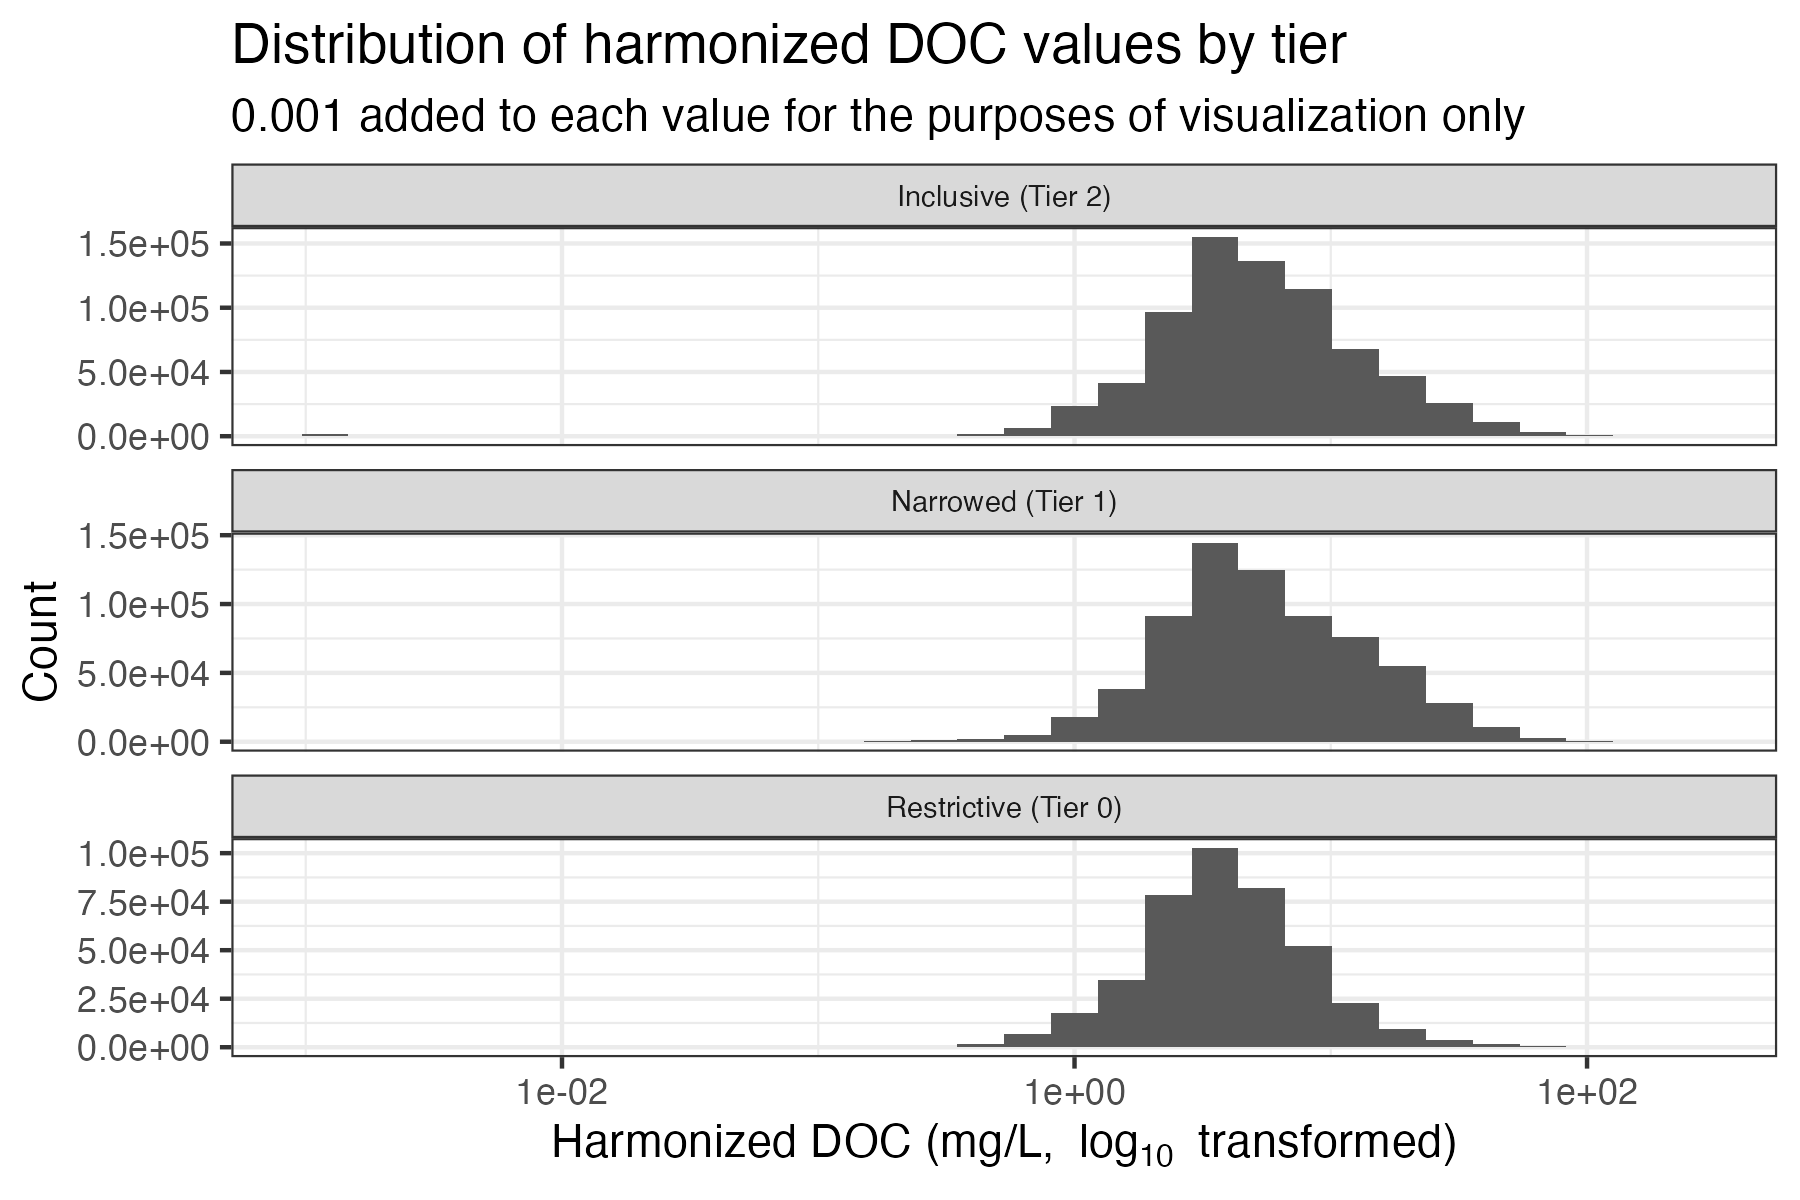
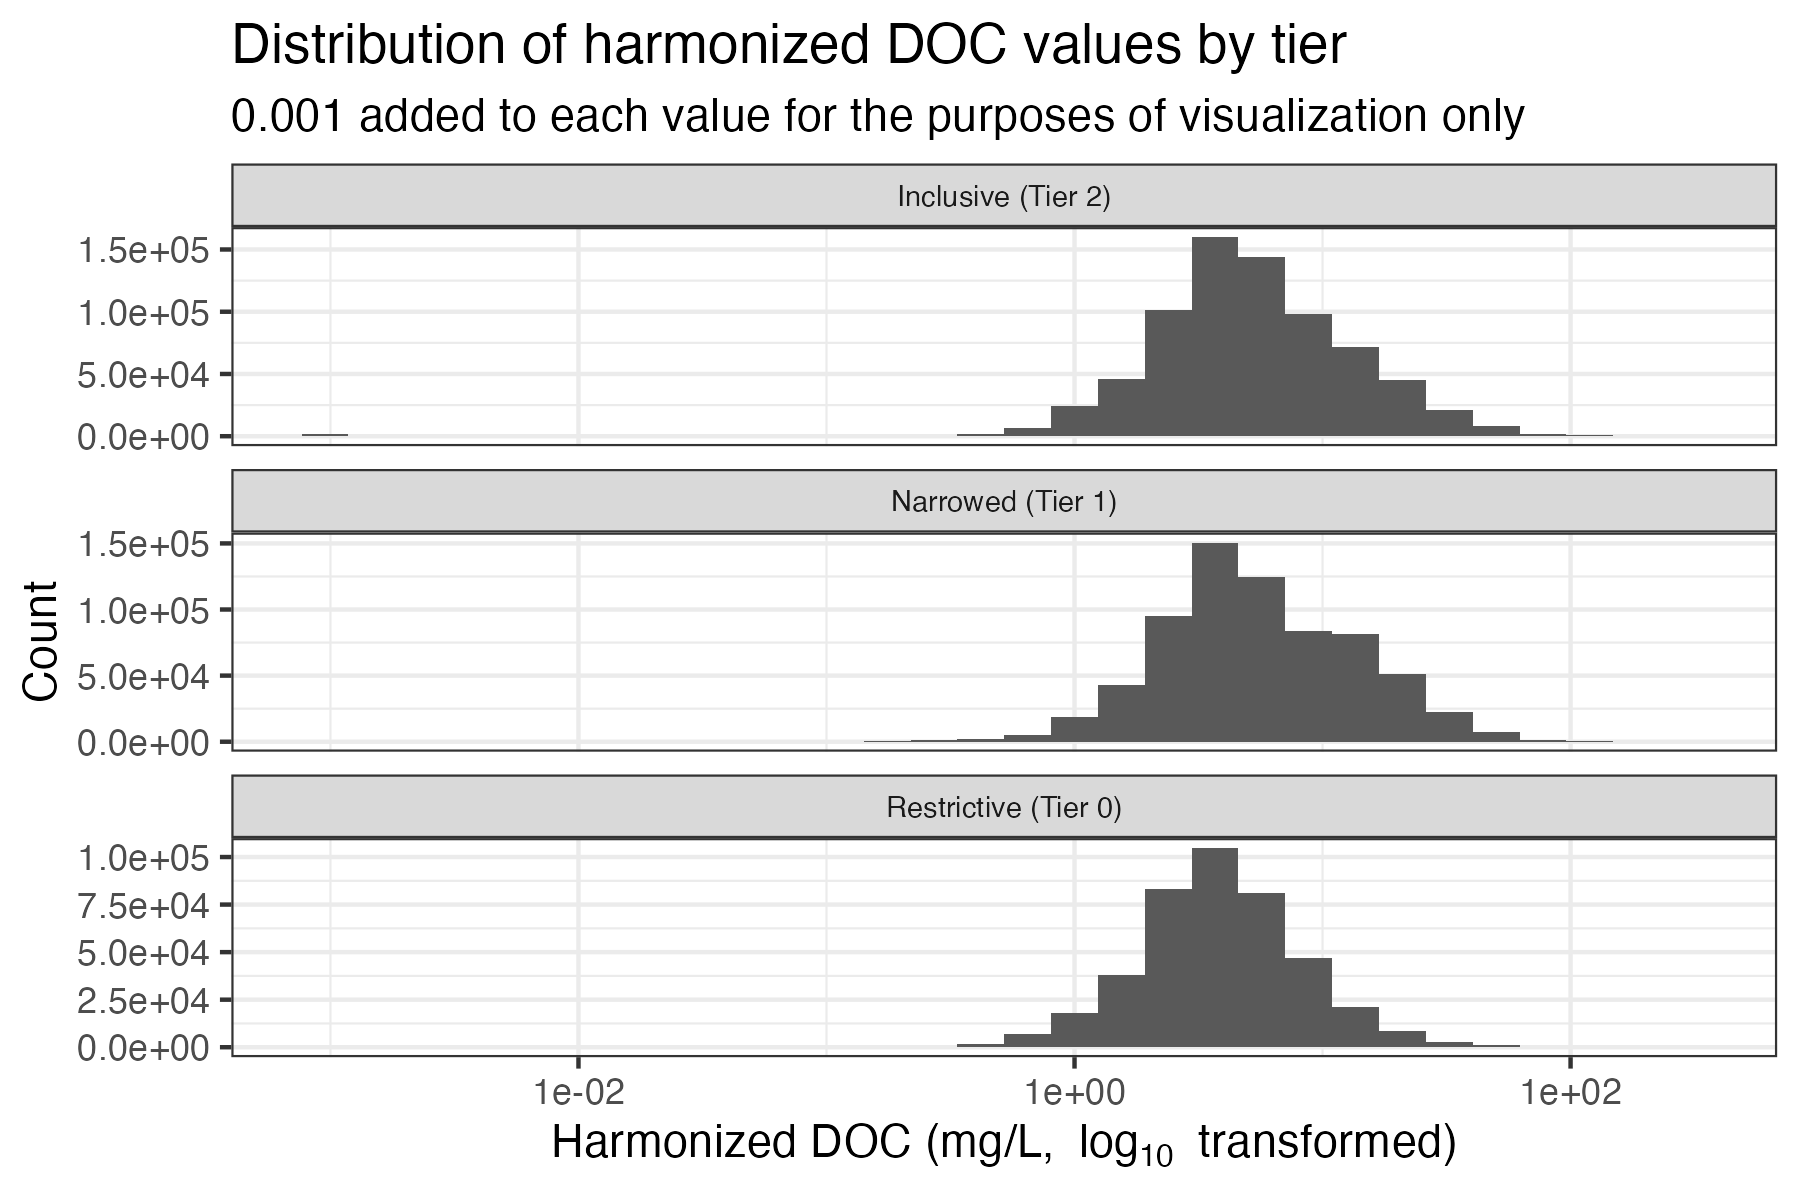
Update depth limits, rerun

diff --git a/docs/references.html b/docs/references.html
@@ -23,7 +23,7 @@
 <meta name="author" content="ROSSyndicate" />
 
 
-<meta name="date" content="2024-10-31" />
+<meta name="date" content="2024-11-05" />
 
   <meta name="viewport" content="width=device-width, initial-scale=1" />
   <meta name="apple-mobile-web-app-capable" content="yes" />
@@ -265,12 +265,18 @@ services. <a href="doi:10.5066/P9X4L3GE" class="uri">doi:10.5066/P9X4L3GE</a></p
 <p>Gieskes, W. W. C., C. Veth, A. Woehrmann, and M. Graefe. 1987. Secchi
 disc visibility world record shattered. Eos, Transactions American
 Geophysical Union 68: 123–123. <a href="doi:10.1029/EO068i009p00123-01" class="uri">doi:10.1029/EO068i009p00123-01</a></p>
+<p>Hotchkiss, E. R., and T. DelSontro. 2024. Chapter 28 - Organic Carbon
+Cycling and Ecosystem Metabolism, p. 939–997. In I.D. Jones and J.P.
+Smol <span class="math display">\[eds.\]</span>, Wetzel’s Limnology (Fourth Edition). Academic Press.</p>
 <p>Landau, W. M. 2021. The targets R package: a dynamic Make-like
 function-oriented pipeline toolkit for reproducibility and
 high-performance computing. Journal of Open Source Software 6: 2959.</p>
 <p>Larson, D. W. 1972. Temperature, transparency, and phytoplankton
 productivity in Crater Lake, Oregon. Limnology and Oceanography 17:
 410–417. <a href="doi:10.4319/lo.1972.17.3.0410" class="uri">doi:10.4319/lo.1972.17.3.0410</a></p>
+<p>Mulholland, P. J. 2003. 6 - Large-Scale Patterns in Dissolved Organic
+Carbon Concentration, Flux, and Sources, p. 139–159. In S.E.G. Findlay
+and R.L. Sinsabaugh <span class="math display">\[eds.\]</span>, Aquatic Ecosystems. Academic Press.</p>
 <p>National Water Quality Monitoring Council, United States Geological
 Survey (USGS), and Environmental Protection Agency (EPA). 2021. Water
 Quality Portal.doi:<a href="https://doi.org/10.5066/P9QRKUVJ" class="uri">https://doi.org/10.5066/P9QRKUVJ</a></p>
@@ -283,8 +289,9 @@ Remote Sensing of Water Quality for Inland Waters. Water Resources
 Research 55: 10012–10025. <a href="doi:10.1029/2019WR024883" class="uri">doi:10.1029/2019WR024883</a></p>
 <p>Teucher, A. 2023. lutz: Look Up Time Zones of Point Coordinates. R
 package version 0.3.2, <a href="https://CRAN.R-project.org/package=lutz" class="uri">https://CRAN.R-project.org/package=lutz</a>.</p>
-<p>Wetzel, R. G. 2011. Limnology: lake and river ecosystems, 3. ed. San
-Diego: Academic Press.</p>
+<p>Wetzel, R. G. 2024. Wetzel’s limnology: lake and river ecosystems,
+Fourth edition. I.D. Jones and J.P. Smol <span class="math display">\[eds.\]</span>. Academic Press, an
+imprint of Elsevier.</p>
 
 </div>
             </section>

diff --git a/docs/doc-harmonization-process.html b/docs/doc-harmonization-process.html
@@ -23,7 +23,7 @@
 <meta name="author" content="ROSSyndicate" />
 
 
-<meta name="date" content="2024-10-31" />
+<meta name="date" content="2024-11-05" />
 
   <meta name="viewport" content="width=device-width, initial-scale=1" />
   <meta name="apple-mobile-web-app-capable" content="yes" />
@@ -837,8 +837,11 @@ dropped leaving 2.2 million remaining in the harmonized DOC dataset.</p>
 <div id="remove-unrealistic-values-1" class="section level3 hasAnchor" number="6.2.12">
 <h3><span class="header-section-number">6.2.12</span> Remove unrealistic values<a href="doc-harmonization-process.html#remove-unrealistic-values-1" class="anchor-section" aria-label="Anchor link to header"></a></h3>
 <p>Before finalizing the dataset we remove DOC values that are beyond a
-realistic threshold. We use 200 mg/L as our cutoff for removal
-<span class="math display">\[citation needed\]</span>.</p>
+realistic threshold. We use 300 mg/L as our cutoff for removal as
+typical values are often less than 120 mg/L (Hotchkiss and DelSontro,
+2024) but values of 300 mg/L occur in some climates (Mulholland, 2003).</p>
+<p>We also remove any depths &gt; 592m, the deepest point in a lake in the
+U.S.</p>
 <p>19.2 thousand rows are removed. The final row count after this is 2.2
 million.</p>
 <p><img src="chapters/05_doc_harmonization_files/figure-gfm/unnamed-chunk-33-1.png" /><!-- --></p>

diff --git a/docs/404.html b/docs/404.html
@@ -23,7 +23,7 @@
 <meta name="author" content="ROSSyndicate" />
 
 
-<meta name="date" content="2024-10-31" />
+<meta name="date" content="2024-11-05" />
 
   <meta name="viewport" content="width=device-width, initial-scale=1" />
   <meta name="apple-mobile-web-app-capable" content="yes" />

diff --git a/docs/chlorophyll-a-chla-harmonization-process.html b/docs/chlorophyll-a-chla-harmonization-process.html
@@ -23,7 +23,7 @@
 <meta name="author" content="ROSSyndicate" />
 
 
-<meta name="date" content="2024-10-31" />
+<meta name="date" content="2024-11-05" />
 
   <meta name="viewport" content="width=device-width, initial-scale=1" />
   <meta name="apple-mobile-web-app-capable" content="yes" />

diff --git a/docs/download-process.html b/docs/download-process.html
@@ -23,7 +23,7 @@
 <meta name="author" content="ROSSyndicate" />
 
 
-<meta name="date" content="2024-10-31" />
+<meta name="date" content="2024-11-05" />
 
   <meta name="viewport" content="width=device-width, initial-scale=1" />
   <meta name="apple-mobile-web-app-capable" content="yes" />

diff --git a/docs/index.html b/docs/index.html
@@ -23,7 +23,7 @@
 <meta name="author" content="ROSSyndicate" />
 
 
-<meta name="date" content="2024-10-31" />
+<meta name="date" content="2024-11-05" />
 
   <meta name="viewport" content="width=device-width, initial-scale=1" />
   <meta name="apple-mobile-web-app-capable" content="yes" />

diff --git a/docs/notes.html b/docs/notes.html
@@ -23,7 +23,7 @@
 <meta name="author" content="ROSSyndicate" />
 
 
-<meta name="date" content="2024-10-31" />
+<meta name="date" content="2024-11-05" />
 
   <meta name="viewport" content="width=device-width, initial-scale=1" />
   <meta name="apple-mobile-web-app-capable" content="yes" />

diff --git a/docs/secchi-harmonization-process.html b/docs/secchi-harmonization-process.html
@@ -23,7 +23,7 @@
 <meta name="author" content="ROSSyndicate" />
 
 
-<meta name="date" content="2024-10-31" />
+<meta name="date" content="2024-11-05" />
 
   <meta name="viewport" content="width=device-width, initial-scale=1" />
   <meta name="apple-mobile-web-app-capable" content="yes" />

diff --git a/docs/technical-details.html b/docs/technical-details.html
@@ -23,7 +23,7 @@
 <meta name="author" content="ROSSyndicate" />
 
 
-<meta name="date" content="2024-10-31" />
+<meta name="date" content="2024-11-05" />
 
   <meta name="viewport" content="width=device-width, initial-scale=1" />
   <meta name="apple-mobile-web-app-capable" content="yes" />

diff --git a/docs/tiering-flagging-and-quality-control-philosophy.html b/docs/tiering-flagging-and-quality-control-philosophy.html
@@ -23,7 +23,7 @@
 <meta name="author" content="ROSSyndicate" />
 
 
-<meta name="date" content="2024-10-31" />
+<meta name="date" content="2024-11-05" />
 
   <meta name="viewport" content="width=device-width, initial-scale=1" />
   <meta name="apple-mobile-web-app-capable" content="yes" />
